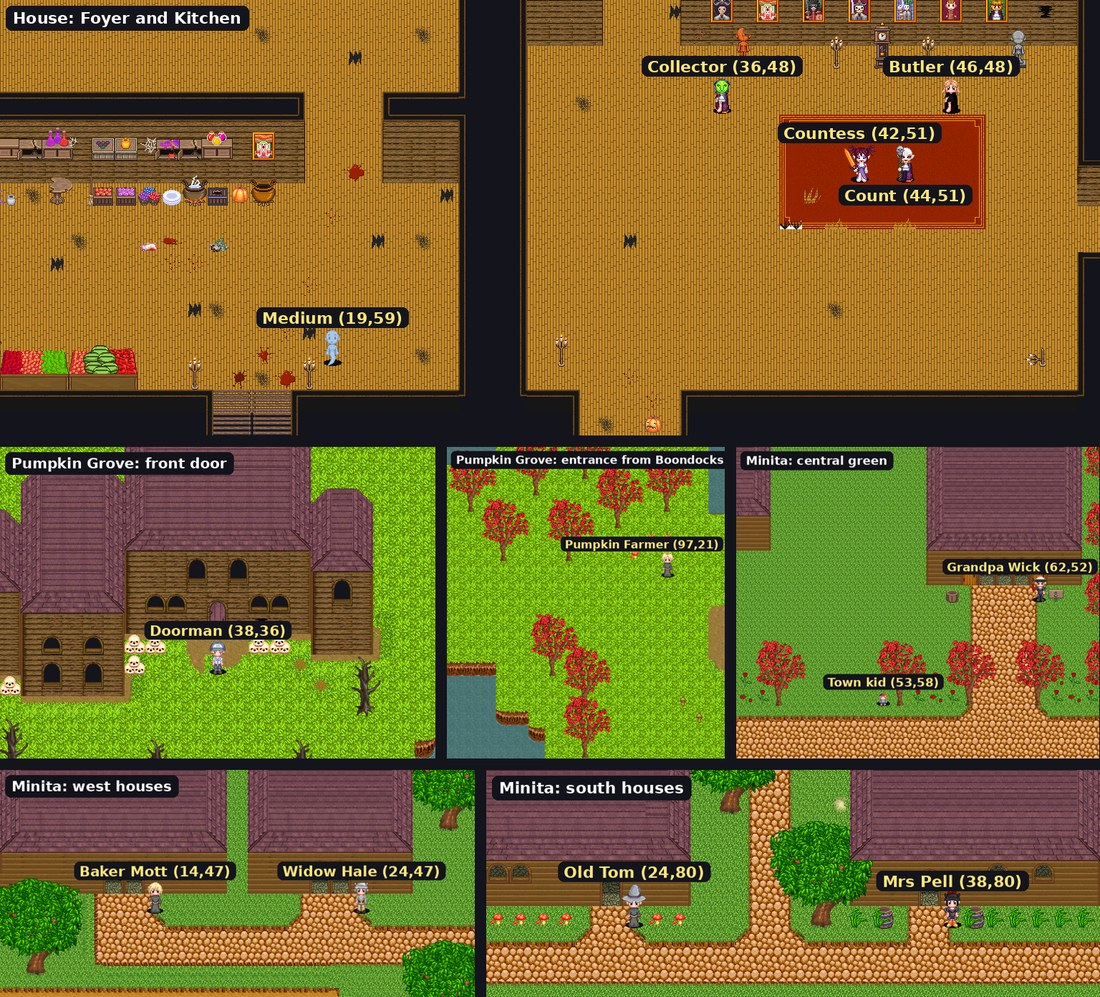
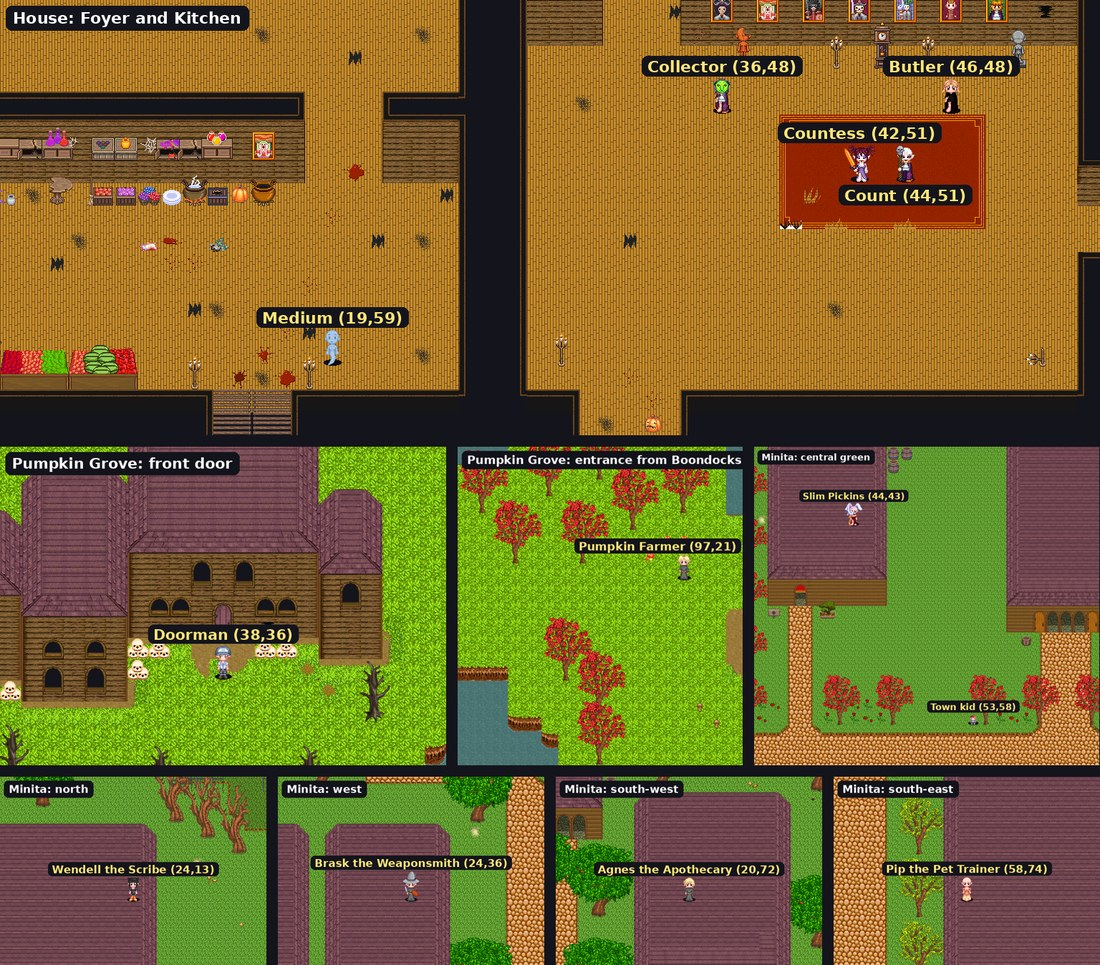
data(halloween): use five Minita shopkeepers for Trick or Treat instead of new NPCs

diff --git a/tools/halloween-data/build.py b/tools/halloween-data/build.py
@@ -299,11 +299,6 @@ NPCS = [
     ("farmer", {**FRIENDLY, "npc_name": "Pumpkin Farmer", "copy_look": 186}),
     ("butler", {**FRIENDLY, "npc_name": "The Butler", "body_id": 1, "face_id": 1, "hair_id": 2,
                 "equipped_items": eq(chest=(34, 20, 20, 20, 200))}),
-    ("neighbour1", {**FRIENDLY, "npc_name": "Baker Mott", "copy_look": 100}),
-    ("neighbour2", {**FRIENDLY, "npc_name": "Widow Hale", "copy_look": 106}),
-    ("neighbour3", {**FRIENDLY, "npc_name": "Old Tom", "copy_look": 108}),
-    ("neighbour4", {**FRIENDLY, "npc_name": "Mrs Pell", "copy_look": 148}),
-    ("neighbour5", {**FRIENDLY, "npc_name": "Grandpa Wick", "copy_look": 184}),
 ]
 GUESTS = ["penguin", "frog", "bunny", "purple", "ghostGuest", "devil"]
 
@@ -315,6 +310,14 @@ GROVE_UPDATES = {
     167: {"npc_name": "Jack O'Malice", "npc_level": 50, "npc_hp": 700000, "weapon_damage": 12000, "experience": 5000},
 }
 PUMPKINS, CHIEFS, KING, JACK = 166, 168, 169, 167
+
+TOWNSFOLK = [
+    (150, "Wendell the Scribe", "Scriber"),
+    (105, "Brask the Weaponsmith", "Weapon Guy"),
+    (226, None, "Slim Pickins"),
+    (100, "Agnes the Apothecary", "Potion Guy"),
+    (181, "Pip the Pet Trainer", "Pet Trainer"),
+]
 
 DROPS = (
     [(g, m, 1, 0, 1) for g in GUESTS for m in ("goblin", "zombie", "mummy")]
@@ -352,8 +355,6 @@ FRIENDLY_SPAWNS = [
     ("countess", "house", 42, 51), ("count", "house", 44, 51), ("collector", "house", 36, 48),
     ("medium", "house", 19, 59), ("butler", "house", 46, 48), ("weeper", "house", 38, 36),
     ("doorman", GROVE, 38, 36), ("farmer", GROVE, 97, 21), ("kid", MINITA, 53, 58),
-    ("neighbour1", MINITA, 14, 47), ("neighbour2", MINITA, 24, 47), ("neighbour3", MINITA, 24, 80),
-    ("neighbour4", MINITA, 38, 80), ("neighbour5", MINITA, 62, 52),
 ]
 
 WEARING = "Scripts/Quest/HalloweenWearing.csx"
@@ -381,13 +382,14 @@ QUESTS = [
          failed="""Five thousand gold. That's the price of a good costume.""",
          reqs=[("Gold", 5000, None)], rewards=[("Item", "@item:costume", 1)]),
     dict(key="q2", giver="kid", name="Trick or Treat!", min_level=1, prereq=["q1"],
-         desc="""Now we go trick-or-treating! Knock on five doors in Minita: Baker Mott, Widow Hale, Old Tom,
-         Mrs Pell and Grandpa Wick.
+         desc="""Now we go trick-or-treating! The shopkeepers in Minita always have something sweet under
+         the counter. Visit Wendell the Scribe, Brask the Weaponsmith, Slim Pickins, Agnes the
+         Apothecary and Pip the Pet Trainer.
 
          And you HAVE to wear your costume, or it doesn't count.""",
          passed="""Look at all that! You're a natural. Here, have some of mine too.""",
-         failed="""Five doors, and your costume on. Those are the rules.""",
-         reqs=[("TalkToNPC", f"@npc:neighbour{i}", 1) for i in range(1, 6)] + [("Script", WEARING)],
+         failed="""Five shopkeepers, and your costume on. Those are the rules.""",
+         reqs=[("TalkToNPC", npc_id, 1) for npc_id, _, _ in TOWNSFOLK] + [("Script", WEARING)],
          rewards=[("Experience", 10000), ("Gold", 2000), candy(25), ("Item", "@item:pie", 3)]),
     dict(key="q3", giver="kid", name="The House on the Hill", min_level=1, prereq=["q2"],
          desc="""The party's at the big house past the Pumpkin Grove. The Doorman only lets in people in
@@ -546,7 +548,6 @@ GIVER_ORDER = {
     "kid": ["q1", "q2", "q3"], "doorman": ["q4", "q3"],
     "countess": ["q5", "q6", "q7", "q8", "q9", "q10", "q11"], "count": ["q12", "q13"],
     "collector": ["q14", "q15", "q16", "q17"], "medium": ["q18", "q19", "q20"], "farmer": ["q21", "q22"],
-    **{f"neighbour{i}": ["q2"] for i in range(1, 6)},
 }
 
 FAKE_SCARES = {
@@ -635,6 +636,18 @@ def build(next_ids, npc_rows, warp_rows):
         original = npcs_by_id[npc_id]
         revert.append({"op": "update", "sheet": "NPCs", "id": npc_id,
                        "set": {k: blank_as_default(original.get(k, "")) for k in changes}})
+
+    for npc_id, new_name, old_name in TOWNSFOLK:
+        current = npcs_by_id[npc_id]
+        if current["npc_name"] not in (old_name, new_name or old_name):
+            fail(f"NPC {npc_id} is {current['npc_name']!r}, expected {old_name!r}")
+        if str(current.get("quest_ids", "")).strip():
+            fail(f"NPC {npc_id} already has quests {current['quest_ids']!r}")
+        changes = {"quest_ids": str(ids("quest", "q2"))}
+        if new_name:
+            changes["npc_name"] = new_name
+        ops.append({"op": "update", "sheet": "NPCs", "id": npc_id, "set": changes})
+        revert.append({"op": "update", "sheet": "NPCs", "id": npc_id, "set": {"quest_ids": ""}})
 
     for npc, item, stack, max_stack, rate in DROPS:
         row = {"npc_template_id": ref(npc if isinstance(npc, int) else f"@npc:{npc}", ids),

diff --git a/docs/plans/2026-10-18-halloween-part4-data.md b/docs/plans/2026-10-18-halloween-part4-data.md
@@ -41,11 +41,13 @@ scripts, so apply the batch after the scripts are merged).
 3. **A goal host never shows quests.** `PlayerLeftClickEvent.cs:54-62` opens the goal window and
    returns before quests, so the candy goal needs its own host NPC (the Butler, Task 5), not the
    Countess.
-4. **"Talk to 5 townsfolk" needs quest NPCs.** `TalkedTo` only runs from `QuestWindow`
-   (`QuestWindow.cs:40`), so each destination must be a Quest NPC listing quest 2 (precedent: quest
-   88 is listed on both giver 250 and destination 251). Existing townsfolk are vendors or have quest
-   lists where an earlier `return` (class, level, prerequisite) would hide quest 2. Task 5 adds five
-   new Minita neighbours that list only quest 2.
+4. **"Talk to 5 townsfolk" needs the destinations to list quest 2.** `TalkedTo` only runs from
+   `QuestWindow` (`QuestWindow.cs:40`), so each destination lists the quest (precedent: quest 88 is
+   listed on both giver 250 and destination 251). The destinations are five Minita shopkeepers with
+   no quests of their own, so nothing earlier in their lists can end the loop before quest 2. A
+   vendor with quests keeps its shop: right-click opens it (`PlayerRightClickEvent.cs:58`) and
+   left-click opens quests (`PlayerLeftClickEvent.cs:59`). Four are renamed for good; their
+   `quest_ids` go back to blank after the event.
 5. **Warp deletions are manual.** `Warptiles` has no primary key and `gsheets.py` has no delete.
    `manual.md` lists the exact rows.
 6. **The old upper floor (left half of map 39) becomes unreachable** once the Grove door and the
@@ -90,7 +92,7 @@ scripts, so apply the batch after the scripts are merged).
 Map tiles verified on the shipped maps (`halloween-event` at 21d77ad):
 - House (`Map10048`): stairs down x 14-17, y 61-65, blocked at y 66; every NPC stand tile below is free.
 - Basement (`Map10039`): old arrival (93-95, 99) and exit (93-95, 100) free; pentagram as in Part 2.
-- Minita (`Map10001`): (14,47), (24,47), (24,80), (38,80), (62,52), (53,58) free.
+- Minita (`Map10001`): (53,58) free.
 - Grove (`Map10038`): (97,21) free, inside the Boondocks entrance.
 
 ---
@@ -281,11 +283,16 @@ are no roaming copies and every guest kill counts for quests 5 and 12.
 | collector | The Collector | human, chest 34, helm 114, hair 23 | — | Quest, quests 14 15 16 17 |
 | farmer | Pumpkin Farmer | copy Farmer Pete 186 (chest 12, hair 31, face 1) | — | Quest, quests 21 22 |
 | butler | The Butler | human, chest 34 tint 20,20,20,200, face 1, hair 2 | — | Quest, no quests (goal host, D4) |
-| neighbour1-5 | Minita Neighbour (titles: Baker, Widow Hale, Old Tom, the Twins, Mrs Pell) | copy existing townsfolk looks | — | Quest, quest 2 only |
 
 Quest/friendly NPCs copy Farmer Pete's combat columns (`invincible` 1, `stationary` 1, level 50).
 Wailing and Flickering get `script params` none; their snare comes from `ghostSnareOnHit` only when
 the Groundskeeper adds them (Part 3).
+
+**Shopkeeper updates (Trick or Treat! stops; `quest_ids` = quest 2; the generator refuses if one
+already has quests or has an unexpected name; `revert.json` blanks `quest_ids` and keeps the names):**
+- 150 Scriber → "Wendell the Scribe"; 105 Weapon Guy → "Brask the Weaponsmith"; 226 Slim Pickins
+  (name kept); 100 Potion Guy → "Agnes the Apothecary"; 181 Pet Trainer → "Pip the Pet Trainer".
+  Each also stands in the Shops map (36); talking to him there counts too.
 
 **Updates (event values; originals into `revert.json`):**
 - 166 Pumpkin: level 50, hp 3200, weapon dmg 1200, exp 1250.
@@ -335,7 +342,7 @@ Tier 3's 15% Groundskeeper rate is applied by the Groundskeeper script (Part 3),
 - **Weeper:** one at (38,36).
 - **Friendly:** Countess (H,42,51), Count (H,44,51), Collector (H,36,48), Medium (H,19,59),
   Butler (H,46,48), Doorman (38,38,36), Farmer (38,97,21), Trick-or-Treater (1,53,58),
-  neighbours (1,14,47), (1,24,47), (1,24,80), (1,38,80), (1,62,52).
+  no new Minita NPCs besides the kid (the shopkeepers already stand there).
 - Basement: none (ambush only).
 
 Validation from Task 1 covers every tile. Expected count ≈ 280; the generator prints per-room counts.
@@ -347,11 +354,11 @@ Validation from Task 1 covers every tile. Expected count ≈ 280; the generator 
 | NPC | Map | Tile | Spot | Look copied from |
 |---|---|---|---|---|
 | Trick-or-Treater | Minita (1) | 53, 58 | South edge of the central green, by the red trees | body 130 |
-| Baker Mott | Minita (1) | 14, 47 | Doorstep of the first house in the north-west row | Potion Guy (100) |
-| Widow Hale | Minita (1) | 24, 47 | Doorstep of the second house in that row | Cloth Armor Guy (106) |
-| Old Tom | Minita (1) | 24, 80 | Doorstep of the south-west house | Silk Armor Guy (108) |
-| Mrs Pell | Minita (1) | 38, 80 | Doorstep of the south-middle house | Tailoring Supplies (148) |
-| Grandpa Wick | Minita (1) | 62, 52 | Doorstep of the east house on the central green | Aryn the Rogue Trainer (184) |
+| Wendell the Scribe (was Scriber, 150) | Minita (1) | 24, 13 | In his shop, north of town | existing |
+| Brask the Weaponsmith (was Weapon Guy, 105) | Minita (1) | 24, 36 | In his shop on the west side | existing |
+| Slim Pickins (226) | Minita (1) | 44, 43 | On the central green | existing |
+| Agnes the Apothecary (was Potion Guy, 100) | Minita (1) | 20, 72 | In her shop in the south-west | existing |
+| Pip the Pet Trainer (was Pet Trainer, 181) | Minita (1) | 58, 74 | In the south-east | existing |
 | The Doorman | Pumpkin Grove (38) | 38, 36 | In front of the house's door (the removed warp) | helm 35, face 5 |
 | Pumpkin Farmer | Pumpkin Grove (38) | 97, 21 | Just inside the entrance from Boondocks (arrivals land at x 99, y 23-27), so his quest is the first thing players see | Farmer Pete (186) |
 | The Countess | House (55) | 42, 51 | Foyer, centre of the red carpet | body 154 |
@@ -361,7 +368,7 @@ Validation from Task 1 covers every tile. Expected count ≈ 280; the generator 
 | The Medium | House (55) | 19, 59 | Kitchen, beside the basement stairs | body 220, pale blue |
 | The Weeper | House (55) | 38, 36 | Statue Gallery, his patrol start | body 231 |
 
-The neighbours stand one tile below their house's door, on the path. Map 55 is the id the house map
+The shopkeepers keep their existing spawns. Map 55 is the id the house map
 gets if the sheet's next map id is still 55 when the batch is built.
 
 ---
@@ -377,7 +384,7 @@ params `{"items":[@item:costume, @item:goblin, @item:zombie, @item:mummy, @item:
 | # | min lvl | repeat | prereq | requirements | rewards |
 |---|---|---|---|---|---|
 | 1 Dress Up | 1 | | | Gold 5000 | Item costume |
-| 2 Trick or Treat! | 1 | | 1 | TalkToNPC neighbour1-5 ×1; Script wearing | XP 10000, Gold 2000, Item candy 25, Item pie 3 |
+| 2 Trick or Treat! | 1 | | 1 | TalkToNPC 150, 105, 226, 100, 181 ×1; Script wearing | XP 10000, Gold 2000, Item candy 25, Item pie 3 |
 | 3 The House on the Hill | 1 | | 2 | TalkToNPC doorman ×1 | XP 1000 |
 | 4 Trick or Treat? | 40 (D2) | yes | | Script wearing | Script `Scripts/Quest/HalloweenDoorman.csx` |
 | 5 Uninvited Guests | 50 | | | Kill ×10 each of 6 guests | XP 120k, Gold 25k, candy 50 |
@@ -402,7 +409,7 @@ params `{"items":[@item:costume, @item:goblin, @item:zombie, @item:mummy, @item:
 Candy rewards are `Item` rewards of the candy template (they go into the bag like dropped candy).
 **Giver `quest ids` order** (prerequisite-free first, chains in order):
 kid `1 2 3`, doorman `4 3`, countess `5 6 7 8 9 10 11`, count `12 13`, collector `14 15 16 17`,
-medium `18 19 20`, farmer `21 22`, each neighbour `2`.
+medium `18 19 20`, farmer `21 22`, each of the five shopkeepers `2`.
 Quest 4 has no prerequisite (the wearing check is the gate), so it comes before quest 3 on the
 Doorman: quest 3 is listed there only as its TalkToNPC destination, and its unmet prerequisite would
 otherwise end the list before quest 4. Quest 11's prerequisites block nothing because it is last.
